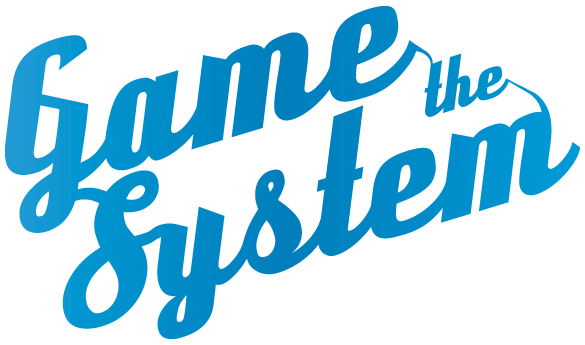
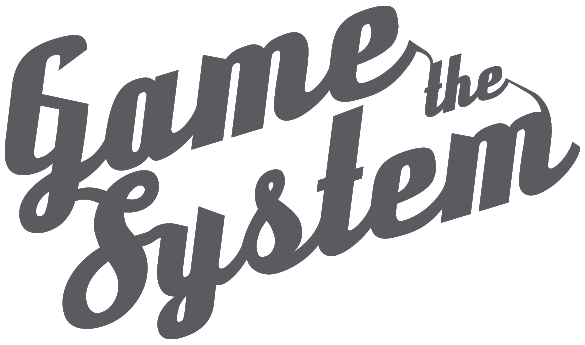
reskin website for 615.io site

diff --git a/_includes/pov.html b/_includes/pov.html
@@ -1,22 +1,21 @@
 <section id="pov" class="pov page cf">
     <div class="pov-wrapper">
-        <div class="pov-quote">Sometimes I wish brands could bring us joy...</div>
-            <div class="js-pov-content-wrapper pov-content-wrapper cf">
-                <div class="pov-header no-gutters">
-                    <div class="header-style pov-header-content">POV</div>
-                </div>
-                <div class="pov-content-mobile-intro js-pov-content-mobile-intro">
-                    <p>Before venturing down the road exploring new ideas, we start with a simple premise, that brands should bring joy...</p>
-                    <div class="pov-read-more js-pov-read-more">
-                      <span>MORE</span>
-                      <i class="fa fa-plus-square pov--read-more-ico"></i>
-                    </div>
-                </div>
-                <div class="pov-content hide-small">
-                    <p>Bringing joy can mean eliciting a whole host of emotions to add value to a customers day. Doing this triggers an authentic connection to a brand as opposed to just marketing noise that leads to so much skepticism and people tuning out.</p>
-                    <p>Consumers are empowered like never before, and they co-write a brand's story. Respecting and embracing this, we believe in powerful ideas that cut through not because they interrupt or shock, but because people want to be a part of them. <strong>Because brands should bring joy.</strong></p>
-                </div>
-            </div>
+      <div class="js-pov-content-wrapper pov-content-wrapper cf">
+          <div class="pov-header no-gutters">
+              <div class="header-style pov-header-content">POV</div>
+          </div>
+          <div class="pov-content-mobile-intro js-pov-content-mobile-intro">
+              <p>There's a lot of talk out there that just becomes noise. Providing an awesome experience creates a memory...</p>
+              <div class="pov-read-more js-pov-read-more">
+                <span>MORE</span>
+                <i class="fa fa-plus-square pov--read-more-ico"></i>
+              </div>
+          </div>
+          <div class="pov-content hide-small">
+              <p>Delivering a memorable experience not only cuts through media clutter, but also respects the user and creates authentic connections.</p>
+              <p>Consumers are empowered like never before, and they co-write a brand’s story. Embracing this, we believe in powerful tech fueled ideas that cut through not because they interrupt or shock, but because people want to be a part of them</p>
+          </div>
         </div>
+      </div>
     <div class="scroll-arrow pov-arrow"></div>
 </section>

diff --git a/_sass/_pov.scss b/_sass/_pov.scss
@@ -1,27 +1,9 @@
 .pov {
-    @include main-image('/images/pov/POVDesktop.jpg');
+    @include main-image('/images/pov/POVbg.png');
     position: relative;
 
     @include max-media-query($tablet-large) {
-        @include main-image('/images/pov/POVbackgroundtall.jpg');
-    }
-}
-
-.pov-quote {
-    font-family: $cursive-font;
-    font-style: italic;
-    color: white;
-    font-size: 2.5em;
-    padding: $spacing-unit * 2;
-    line-height: 1em;
-    position: relative;
-    right: 10%;
-    text-align: right;
-
-    @include max-media-query($tablet-large) {
-        text-align: left;
-        right: 0;
-        font-size: 2em;
+        @include main-image('/images/pov/POVbgmobile.png');
     }
 }
 
@@ -29,10 +11,10 @@
     @extend .col-md-8;
     @extend .col-md-offset-4;
 
-    background: $orange;
+    background: $black;
     padding: $spacing-unit;
     vertical-align: middle;
-    color: white;
+    color: $light-grey;
 }
 
 .pov-header {
@@ -69,8 +51,8 @@
 
 .pov-content-mobile {
     display: none;
-    background: $orange;
-    color: white;
+    background: $black;
+    color: $light-grey;
     padding: $spacing-unit * 2;
     padding-top: 0;
 }
@@ -91,11 +73,12 @@
     @include max-media-query($tablet-small) {
         top: initial;
         bottom: 0;
+        width: 100%;
     }
 }
 
 .pov--read-more-ico {
-    color: white;
+    color: $light-grey;
     padding-left: $spacing-unit * 2;
 }
 
@@ -103,7 +86,7 @@
     border: 2px solid white;
     display: inline-block;
     padding: 2px;
-    color: white;
+    color: $light-grey;
     margin-left: 40%;
     cursor: pointer;
 

diff --git a/_sass/_header.scss b/_sass/_header.scss
@@ -1,20 +1,26 @@
 .site-header {
-    height: $header-height;
+    height: $lg-header-height;
     width: 100%;
     position: fixed;
     top: 0;
     z-index: $z-index-header;
+
+    @include max-media-query($tablet-large) {
+      height: $sm-header-height;
+    }
 }
 
 .logo-wrapper {
     @extend .col-xs-3;
 
-    padding-left: 0;
-    min-width: 250px;
-    width: 20%;
+    padding: 10px;
+    // min-width: 250px;
+    width: 15%;
 
     @include max-media-query($desktop-med) {
-        width: 25%
+        width: 25%;
+        max-width: 250px;
+        min-width: 200px;
     }
 
     @include max-media-query($desktop-small) {
@@ -23,22 +29,24 @@
 
     img {
         max-height: 100%;
+        height: $lg-header-height - $spacing-unit * 2;
 
         @include max-media-query($tablet-large) {
             padding-left: 50px;
-            height: $header-height - $spacing-unit * 2;
+            height: $sm-header-height - $spacing-unit * 2;
         }
     }
 }
 
 .site-menu {
 
-    height: $header-height;
+    height: $lg-header-height;
     margin-top: 0;
     position: absolute;
     left: 250px;
 
     @include max-media-query($tablet-large) {
+        height: $sm-header-height;
         left: 0;
         width: 100%;
     }
@@ -138,7 +146,7 @@
 .mobile-menu-block {
     @include max-media-query($tablet-large) {
         position: absolute;
-        height: 61px;
+        height: $sm-header-height;
         position: absolute;
         width: 100%;
         background: black;

diff --git a/_includes/about.html b/_includes/about.html
@@ -1,10 +1,10 @@
 <section id="about" class="about page cf">
     <div class="about-content">
-        <div class='about-arkipolygon-image'>
-            <img src='/images/about/ArkLogo.png' alt="Arkipolygon" />
+        <div class='about-615-image'>
+            <img src='/images/about/615ioLogo.png' alt="Arkipolygon" />
         </div>
         <div class='about-content-box'>
-            <p>We are a VR and AR creative agency with a unique mix of marketers and game developers. We took what we learned from our time spent at the worlds most recognized advertising and marketing agencies working around the globe on Fortune 500 brands, and combined that with a mix of cutting edge game and software development to round out our own little, yet potent group.</p>
+            <p>We are an AR/VR immersive tech creative agency with a unique mix of tier one marketers, developers and game designers. We took what we learned from our time spent at the worlds most recognized advertising and marketing agencies working around the globe on Fortune 500 brands, and combined that with a mix of cutting edge game and software development to round out our group in the creative hub of Nashville – “The 615”.</p>
         </div>
     </div>
     <div class="scroll-arrow about-arrow"></div>

diff --git a/_includes/pov-mobile-more.html b/_includes/pov-mobile-more.html
@@ -1,4 +1,4 @@
 <div class="pov-content-mobile js-pov-extra-content">
-    <p>Bringing joy can mean eliciting a whole host of emotions to add value to a customers day. Doing this triggers an authentic connection to a brand as opposed to just marketing noise that leads to so much skepticism and people tuning out.</p>
-    <p>Consumers are empowered like never before, and they co-write a brand's story. Respecting and embracing this, we believe in powerful ideas that cut through not because they interrupt or shock, but because people want to be a part of them. <strong>Because brands should bring joy.</strong></p>
+  <p>Delivering a memorable experience not only cuts through media clutter, but also respects the user and creates authentic connections.</p>
+  <p>Consumers are empowered like never before, and they co-write a brand’s story. Embracing this, we believe in powerful tech fueled ideas that cut through not because they interrupt or shock, but because people want to be a part of them.</p>
 </div>

diff --git a/_sass/_approach.scss b/_sass/_approach.scss
@@ -1,6 +1,5 @@
 .approach {
-    background: white;
-    border-bottom: 20px solid $blue;
+    background: $black;
 }
 
 .approach-wrapper {
@@ -31,11 +30,11 @@
     @extend .col-md-5;
     @extend .col-md-offset-1;
 
+    color: $light-grey
 }
 
 .approach-content-header {
-    color: $light-grey;
-    opacity: 0.4;
+    color: $white;
     font-size: 2.5em;
     text-align: center;
     line-height: 1em;
@@ -46,7 +45,7 @@
 .approach-content-second,
 .approach-content-third {
     padding-top: $spacing-unit * 2;
-    border-top: 1px solid black;
+    border-top: 1px solid $light-grey;
     padding-bottom: $spacing-unit;
 }
 
@@ -63,7 +62,6 @@
 
 .approach-content-third {
     color: $light-grey;
-    opacity: 0.8;
     font-size: 1.3em;
     text-align: center;
 }

diff --git a/css/main.scss b/css/main.scss
@@ -3,19 +3,22 @@
 @charset "utf-8";
 
 // Our variables
-$header-height:    80px;
+$lg-header-height:    80px;
+$sm-header-height:    60px;
+$white:            #FFFFFF;
 $yellow:           #DBCA00;
 $orange:           #F27400;
-$black:            black;
+$black:            #000000;
 $light-yellow:     #FFEB00;
 $grey:             #DDDCE2;
 $contact-yellow:   #EEFF2D;
 $dark-grey:        #758895;
-$light-grey:       #88858B;
+$light-grey:       #F2F2F2;
 $pink:             #E15888;
 $header-l-grey:    #DDDDBB;
 $header-d-grey:    #63656E;
 $blue:             #28A5D4;
+$bg-grey:          #262626;
 $cursive-font:     'PT serif', serif;
 $main-font:        'Karla', sans-serif;
 $spacing-unit:     10px;

diff --git a/_sass/_services.scss b/_sass/_services.scss
@@ -96,7 +96,7 @@
 
 
 .services--header {
-    background: $orange;
+    background: $dark-grey;
     color: white;
     padding: $spacing-unit $spacing-unit * 3;
     font-size: 3.5em;
@@ -113,7 +113,7 @@
 }
 
 .services--left-col {
-    background: white;
+    background: $grey;
     padding-top: 20%;
 }
 
@@ -155,7 +155,7 @@
     font-size: 1.2em;
 
     li {
-        color: $orange;
+        color: $dark-grey;
         padding-top: 10px;
 
         p {

diff --git a/js/modals.js b/js/modals.js
@@ -24,4 +24,15 @@
         $(config.povMoreContent).fadeIn();
         $(config.povIntroContent).fadeOut();
     });
+
+    $(window).resize(function() {
+      var windowWidth = $(window).width()
+      if (windowWidth < 768) {
+        $(config.povMoreContent).fadeOut();
+        $(config.povIntroContent).fadeIn();
+      } else {
+        $(config.povMoreContent).fadeOut();
+        $(config.povIntroContent).fadeOut();
+      }
+    })
 })();

diff --git a/_includes/header.html b/_includes/header.html
@@ -1,7 +1,7 @@
 <header class="site-header">
     <div class="mobile-menu-block"></div>
     <div class='logo-wrapper'>
-        <a href="#homepage"><img src="/images/HeaderLogo.png" alt="Arkipolygon logo" /></a>
+        <a href="#homepage"><img src="/images/615ioLogo.png" alt="Arkipolygon logo" /></a>
     </div>
     <div class="site-menu">
     <div class="hamburger"></div>

diff --git a/_sass/_about.scss b/_sass/_about.scss
@@ -1,5 +1,5 @@
 .about {
-    background: white;
+    background: $bg-grey;
     position: relative;
 }
 
@@ -28,9 +28,9 @@
 }
 
 .about-content-box {
-    background: $orange;
+    background: $black;
     padding: $spacing-unit * 2;
-    color: white;
+    color: #F2F2F2;
     font-weight: 700;
     margin-bottom: $spacing-unit * 4;
     margin-top: $spacing-unit * 2;

diff --git a/_sass/_contact.scss b/_sass/_contact.scss
@@ -1,8 +1,8 @@
 .contact {
-    @include main-image('/images/contact/background.png');
+    @include main-image('/images/contact/Contactbkgd.png');
 
     @include max-media-query($tablet-small) {
-        @include main-image('/images/contact/background-mobile.png');
+        @include main-image('/images/contact/ContactMobileBkgrnd.png');
     }
 }
 
